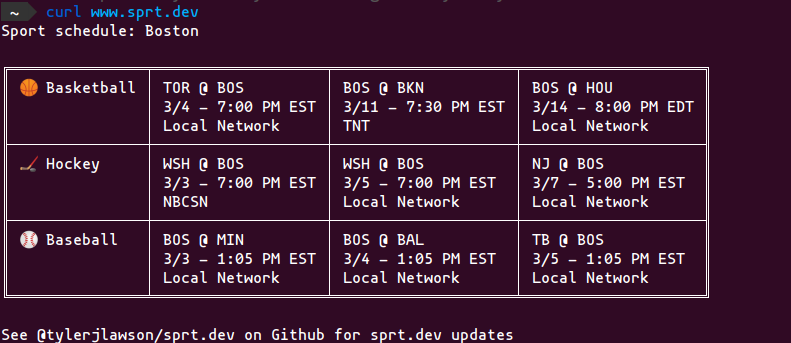
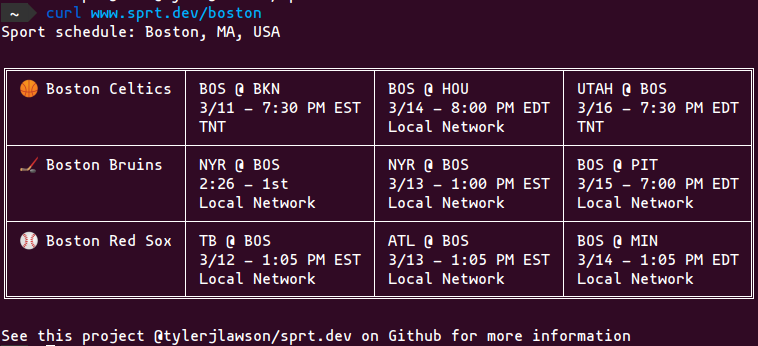
working with loop to get all sports

diff --git a/server/routes/index.js b/server/routes/index.js
@@ -14,45 +14,19 @@ const emojiMap = {
 var router = express.Router();
 router.get('/*', async function (req, res) {
   const city = await getCity(req);
-  const basketballPromise = getESPN('basketball', city.sports.basketball.abbr);
-  const hockeyPromise = getESPN('hockey', city.sports.hockey.abbr);
-  const baseballPromise = getESPN('baseball', city.sports.baseball.abbr);
-  const footballPromise = getESPN('football', city.sports.football.abbr);
+  const sportsKeys = Object.keys(city.sports);
+  const responses = await Promise.allSettled(
+    sportsKeys.reduce((acc, sport) => {
+      const cityTeams = city.sports[sport];
+      cityTeams.forEach(team => acc.push(getESPN(sport, team.abbr)));
+      return acc;
+    }, [])
+  );
 
-  const [
-    basketballGames,
-    hockeyGames,
-    baseballGames,
-    footballGames
-  ] = await Promise.all([
-    basketballPromise,
-    hockeyPromise,
-    baseballPromise,
-    footballPromise
-  ]);
-
-  const dataForTable = [
-    {
-      name: 'basketball',
-      games: basketballGames,
-      team: city.sports.basketball.name
-    },
-    {
-      name: 'hockey',
-      games: hockeyGames,
-      team: city.sports.hockey.name
-    },
-    {
-      name: 'baseball',
-      games: baseballGames,
-      team: city.sports.baseball.name
-    },
-    {
-      name: 'football',
-      games: footballGames,
-      team: city.sports.football.name
-    }
-  ];
+  const dataForTable = responses.reduce((acc, res) => {
+    if (res.status === 'fulfilled' && res.value) acc.push(res.value);
+    return acc;
+  }, []);
 
   const parsedDataForTable = dataForTable.reduce((acc, sport) => {
     if (sport.games) {

diff --git a/server/utils/city.js b/server/utils/city.js
@@ -7,27 +7,39 @@ import { distance } from './helpers';
 
 const getClosest = (loc, data) => {
   return data.reduce(
-    (min, team) => {
+    (mins, team) => {
       const d = distance(loc.lat, loc.lon, team.lat, team.lon);
-      if (d < min.d) {
-        return {
+      if (d < mins[0].d) {
+        return [
+          {
+            abbr: team.abbr,
+            name: team.name,
+            d
+          }
+        ];
+      } else if (d === mins.d) {
+        mins.push({
           abbr: team.abbr,
           name: team.name,
           d
-        };
+        });
       } else {
-        return min;
+        return mins;
       }
     },
-    {
-      abbr: data[0].abbr,
-      name: data[0].name,
-      d: Infinity
-    }
+    [
+      {
+        abbr: data[0].abbr,
+        name: data[0].name,
+        d: Infinity
+      }
+    ]
   );
 };
 
-const getByAbbreviation = (abbr, data) => data.find(team => team.abbr === abbr);
+const getByAbbreviation = (abbr, data) => [
+  data.find(team => team.abbr === abbr)
+];
 
 export const getCity = async req => {
   let geo;

diff --git a/server/utils/espn.js b/server/utils/espn.js
@@ -53,7 +53,11 @@ export const getESPN = async (sport, teamName) => {
     // edge of season fill cells with space so that it fits in grid
     while (parsedRows.length < 3) parsedRows.push(' ');
 
-    return parsedRows;
+    return {
+      name: sport,
+      games: parsedRows,
+      team: teamName
+    };
   } catch (error) {
     console.log(`Error getting data for ${sport}`, error);
     return;

diff --git a/README.md b/README.md
@@ -1,12 +1,24 @@
 # sprt.dev :basketball: :baseball: :ice_hockey: :football:
 
-This project aims to provide you with the upcoming games in ~~your location~~ Boston without ever needing to leave your terminal. I am currently working on support for each of the other cities in the USA, so `sprt.dev` will be available in a city near you, very soon!
+This project aims to provide you with the upcoming games near your location without ever needing to leave your terminal.
 
 ## Usage Instructions
 
-Just run: `curl www.sprt.dev` or [click here](https://www.sprt.dev).
+Run
+
+```
+curl www.sprt.dev
+```
+
+[Or visit the site here](https://sprt.dev)
+
+If you would like to search for a city or place other than your current location simply search for the city like this request for boston. Anything you type after the `/` will be searched for a location to find teams near.
 
 ![curl www.sprt.dev](docs/img/screenshot.png)
+
+## Team Selection Strategy
+
+## Note on Domain
 
 I will be able to allow for the usage of just `sprt.dev` without the `www` in May when I can transfer the domain off of Google Domains. Unfortunately Google Domains does not allow ANAME records and that is the only way to configure Heroku custom domains without the `www`.
 
